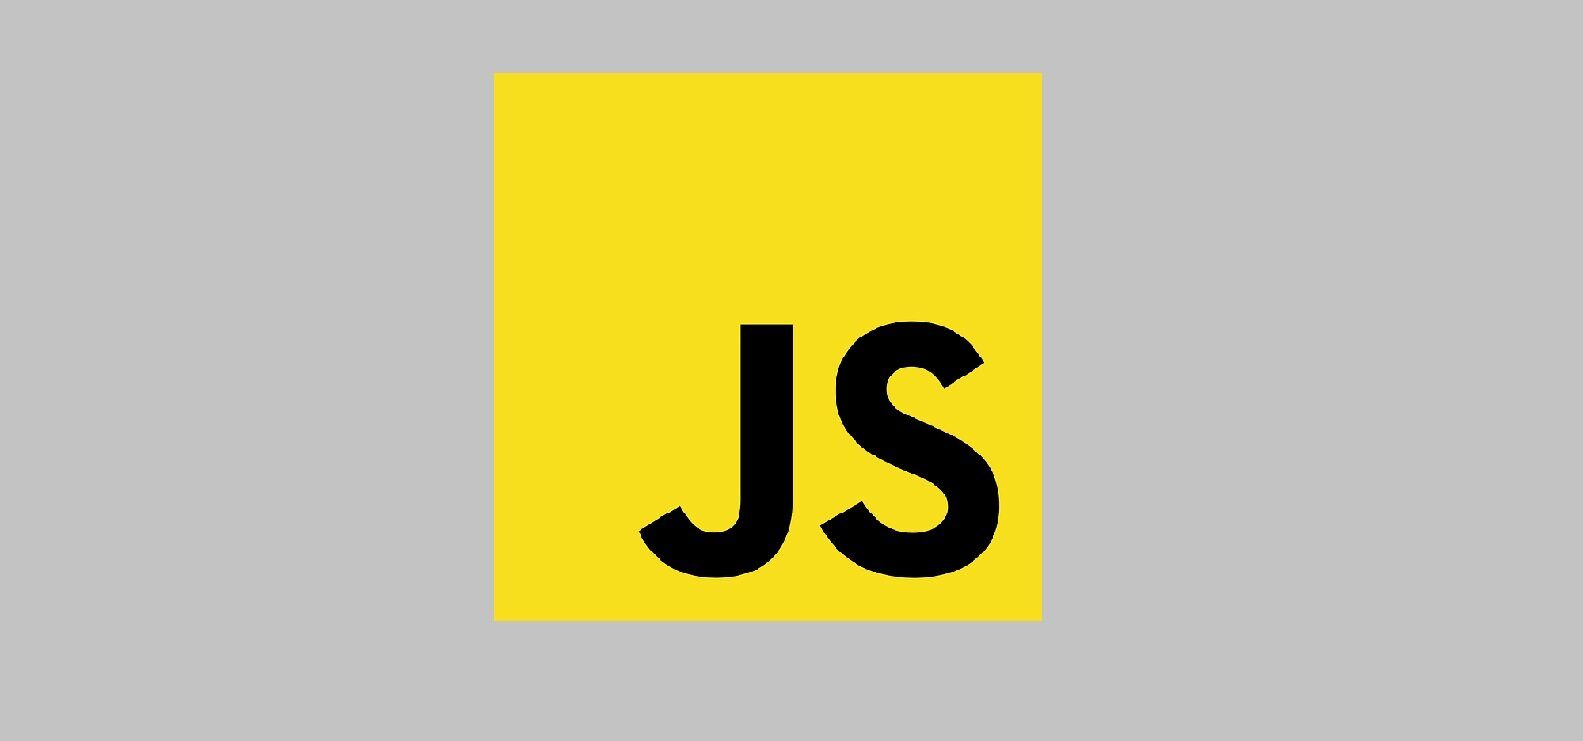
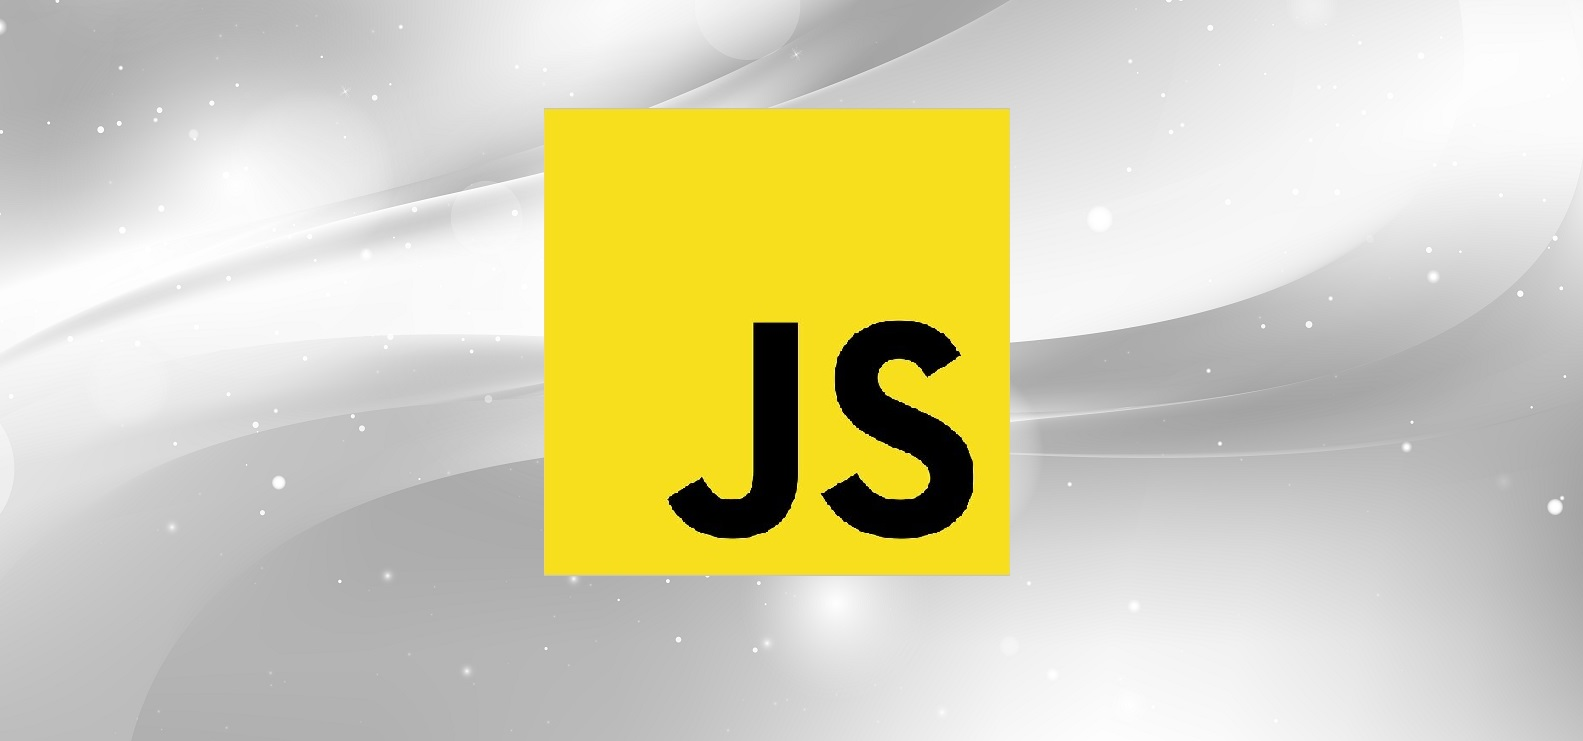
foto puente + backg footer

diff --git a/css/estilos.css b/css/estilos.css
@@ -70,7 +70,7 @@ nav.scrolled {
 .vinculoContact,
 .vinculoProyect {
   text-decoration: none;
-  color: #3C88B8;
+  color: #033281;
   font-weight: 700;
   display: block;
   margin-bottom: .8rem;
@@ -381,6 +381,12 @@ nav.scrolled {
   cursor: pointer;
 }
 
+.carousel-item img {
+  box-shadow: 0px 10px 10px 0px rgba(30,30,30,0.8);
+  -webkit-box-shadow: 0px 10px 10px 0px rgba(30,30,30,0.8);
+  -moz-box-shadow: 0px 10px 10px 0px rgba(30,30,30,0.8);
+}
+
 .carousel-item a {
   text-decoration: none;
 }
@@ -440,6 +446,11 @@ nav.scrolled {
     bottom: 0;
     left: 0;
     font-family: 'Roboto', sans-serif;
+    background: url(/src/vectorFondo.jpg);
+    background-repeat: no-repeat;
+    background-size: 100%;
+    background-position-y: 30rem;
+    background-color: #fff;
   }
 
   .footer-info {
